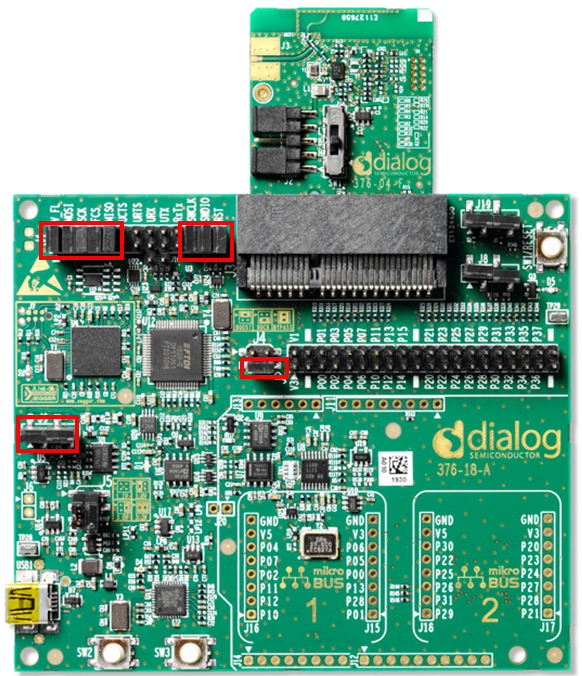
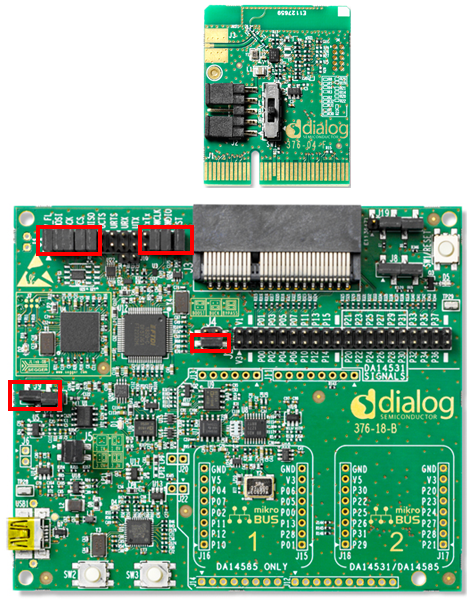
Updates: - non_conn_adv better resolution - more visible screenshot. - 585_basic_DK.PNG smaller resolution. - DA14585 Basic Development Kit : HTML link instead of PDF file. - Change DA14531 Basic Development Kit to DA14531 USB Kit - Change assets\531_basic_DK.PNG to assets\531_USB_kit.PNG - Use Late
Adding:
- main difference between SW and SDK example
- DA145xx Pro Development Kit link: https://www.dialog-semiconductor.com/da14531-getting-started
- HTML code for image alignment

diff --git a/DA14531_Simple_beacon_Example/Readme.md b/DA14531_Simple_beacon_Example/Readme.md
@@ -1,3 +1,4 @@
+
 ------
 
 # DA14531 - DA14585/586 Simple Beacon Example 
@@ -12,7 +13,9 @@ The main purpose of this Software Εxample is to demonstrate creating a **Non-Co
 
 Beacons are battery powered devices that advertise a particular Bluetooth Low Energy payload with identifying information. 
 
-![what_is_beacon](assets\what_is_beacon.PNG)
+<p align="center">
+  <img src="assets\what_is_beacon.PNG"/>
+</p>
 
 This Software Example is just to demonstrate creating a Simple Beacon project with **Non-Connectable Advertising**. However, it can be customized for for more advanced use cases, such as:
   * Adaptive modification of advertising data
@@ -24,7 +27,9 @@ This Software Example is just to demonstrate creating a Simple Beacon project wi
 
 Non-connectable advertising allows users to advertise data with the lowest power consumption.
 
-![non_conn_adv](assets\non_conn_adv.PNG)
+<p align="center">
+  <img src="assets\non_conn_adv.PNG"/>
+</p>
 
 The SDK includes a non-connectable advertising application example. The project is in the SDK directory:
 
@@ -33,6 +38,8 @@ The SDK includes a non-connectable advertising application example. The project 
 The Keil v5 project file is:
 
     <sdk_root_directory>\projects\target_apps\misc\ble_app_noncon\Keil_5\ble_app_noncon.uvprojx
+
+The **main difference** between Simple Beacon SW Example and Non-Connectable example of the SDK is that in this implementation, user can define the data which will be appended into the Advertising or Scan Response data. In the SDK Example, there is not this possibility, as the data which is stored in the adverting or Scan response packet was fixed (0xA5). To do so, Beacons will advertise a particular Bluetooth Low Energy payload with identifying information selected by the user. 
 
 The appropriate APIs should be used are the listed below :
 
@@ -45,30 +52,35 @@ For getting more information about the Non-Connectable Advertising, please refer
     
 This example runs on DA14531 and DA14585/586 Bluetooth Smart SoC devices. 
   - Connect the Development Kit with the host computer over the USB connector. 
-  - Follow the hardware configuration according to the BLE SoC. 
+  - Hardware configurations are different between DA14585/586 and DA14531. Please find bellow the approprate the hardware configuration.
 
 ### DA14585/586 Hardware Configuration
 
 In case of DA14585/586, the DA1458x Pro Development Kit is required with default jumper configuration. Please see the illustration below:
 
-![585_basic_DK](assets\585_basic_DK.PNG)
+<p align="center">
+  <img src="assets\585_basic_DK.PNG"/>
+</p>
 
-Refer to the getting started guide of [DA14585 Basic Development Kit](https://www.dialog-semiconductor.com/sites/default/files/um-b-048_da14585da14586_getting_started_guide_v2.0_0.pdf).
+Refer to the getting started guide of [DA14585 Basic Development Kit](https://s3.eu-west-2.amazonaws.com/lpccs-docs.dialog-semiconductor.com/DA14585_Getting_Started_basic/index.html).
 
 ### DA14531 Hardware Configuration
 
-In case of DA14531, either  **DA145xx Pro Development kit** or **DA14531 Basic Development Kit** is required for this Software Example with default jumper configuration. Please see the illustrations below:
+In case of DA14531, either  **DA145xx Pro Development Kit** or **DA14531 USB Kit** is required for this Software Example with default jumper configuration. Please see the illustrations below:
 
-**DA145xx Pro Development kit**
+**DA145xx Pro Development Kit**
 
-![531_pro_dk](assets\531_pro_dk.PNG)
+Jumpers are placed in default configurations. Refer to the getting started guide of [DA145xx Pro Development Kit](https://www.dialog-semiconductor.com/da14531-getting-started).
+<p align="center">
+  <img src="assets\531_pro_dk.PNG"/>
+</p>
 
-**DA14531 Basic Development Kit** 
+**DA14531 USB Kit** 
 
-![531_basic_DK](assets\531_basic_DK.PNG)
-
-Refer to the getting started guide of DA145xx Pro Development Kit.
-
+Refer to the getting started guide of DA145xx USB Kit
+<p align="center">
+  <img src="assets\531_usb_kit.PNG"/>
+</p>
 
 ### Software configuration
   - SDK6.0.12 or later
@@ -118,25 +130,29 @@ memcpy(user_store_data, USER_DATA ,USER_DATA_LEN );
 To verify please take a look at the BLE sniffer log data
 
 1. Initially only the the Device Name is placed into Adverising Data.
-
-	![device_name](assets\device_name.PNG)
+  <p align="center">
+    <img src="assets\device_name.PNG"/>
+  </p>
 
 2. Advertising Data are now full.
-
-	![non_conn](assets\non_conn.PNG)
+  <p align="center">
+    <img src="assets\non_conn.PNG"/>
+  </p>
 
 3. Switching from ADV_NONCONN_IND to ADV_SCAN_IND.
-
-	![adv_ind](assets\adv_ind.PNG)
+  <p align="center">
+    <img src="assets\adv_ind.PNG"/>
+  </p>
 
 4. Central sends a scan request (SCAN_REQ) in order to receive a scan response (SCAN_RESP) from the advertiser.
-
-	![scan_req](assets\scan_req.PNG)
+  <p align="center">
+    <img src="assets\scan_req.PNG"/>
+  </p>
 
 5. Full Scan Response Data.
-
-	![scan_resp](assets\scan_resp.PNG)
-
+  <p align="center">
+    <img src="assets\scan_resp.PNG"/>
+  </p>
 
 ## Known Limitations
 
